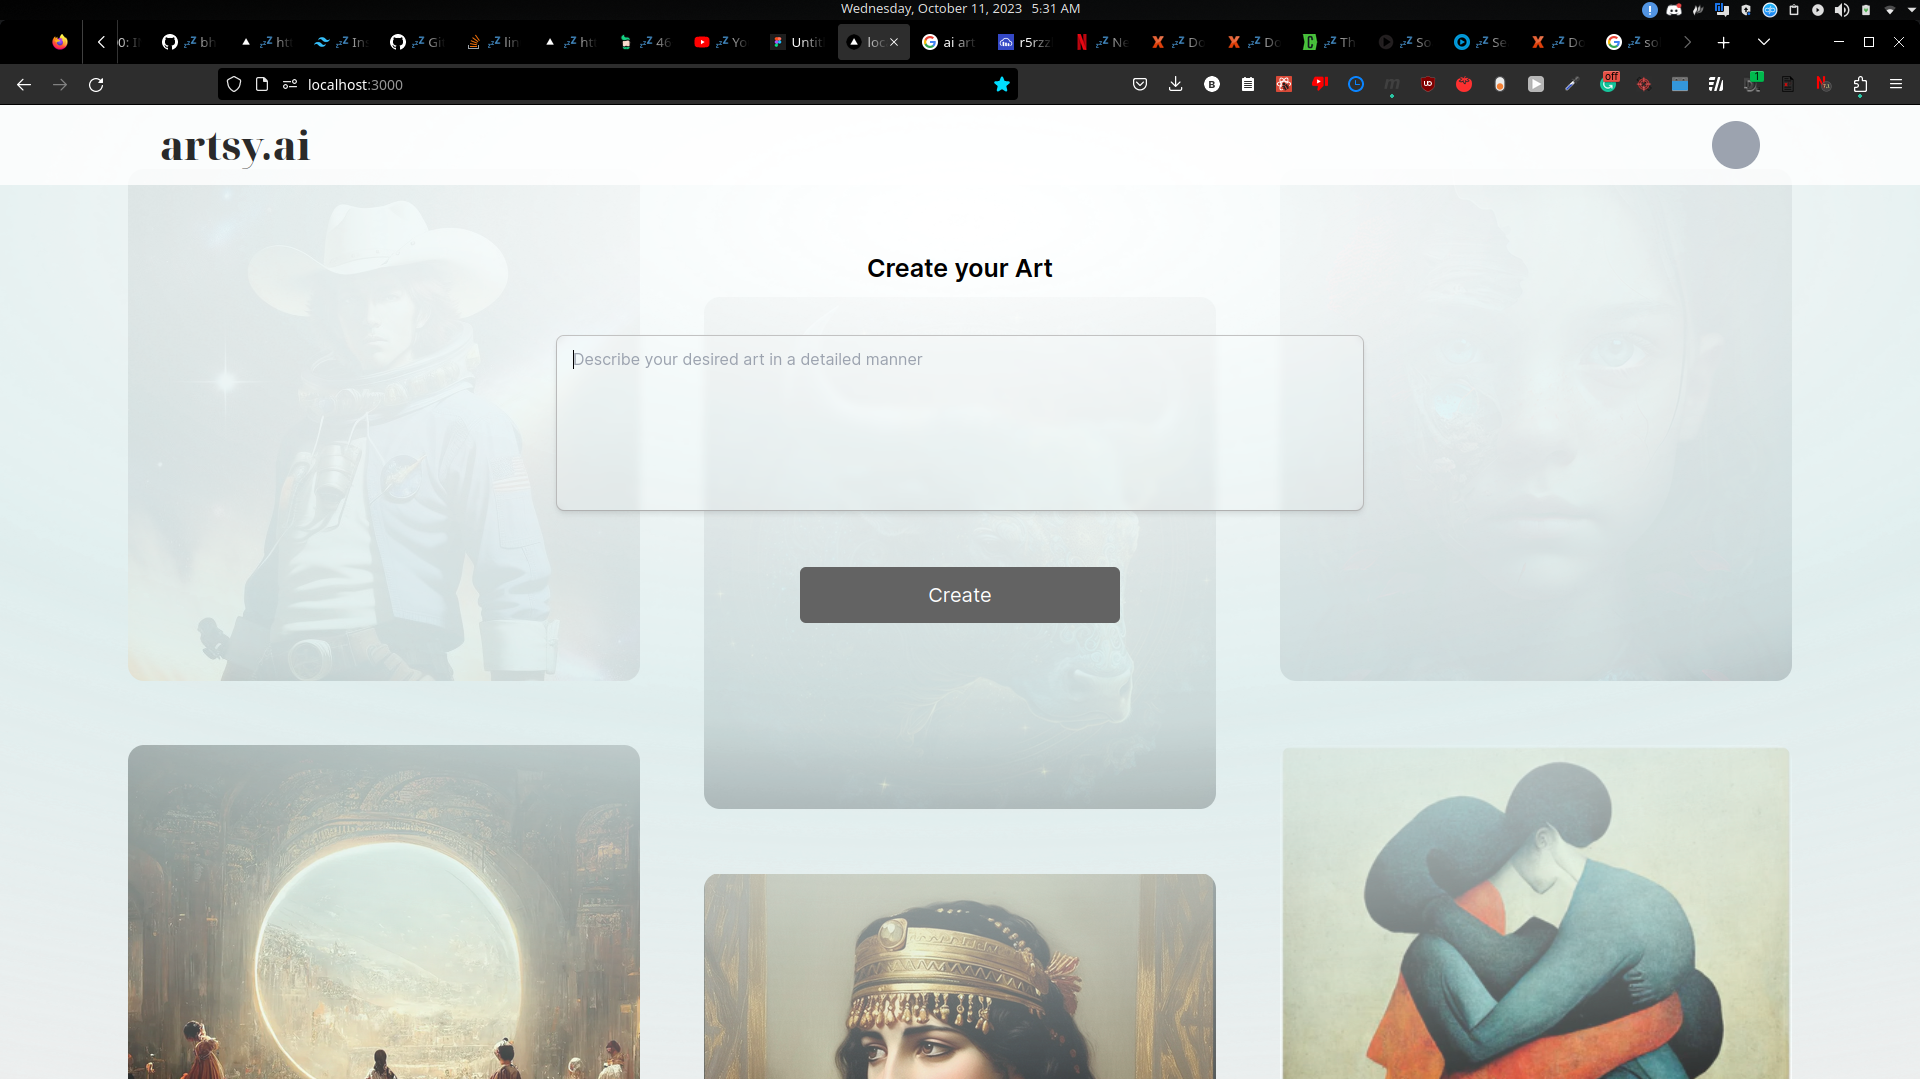
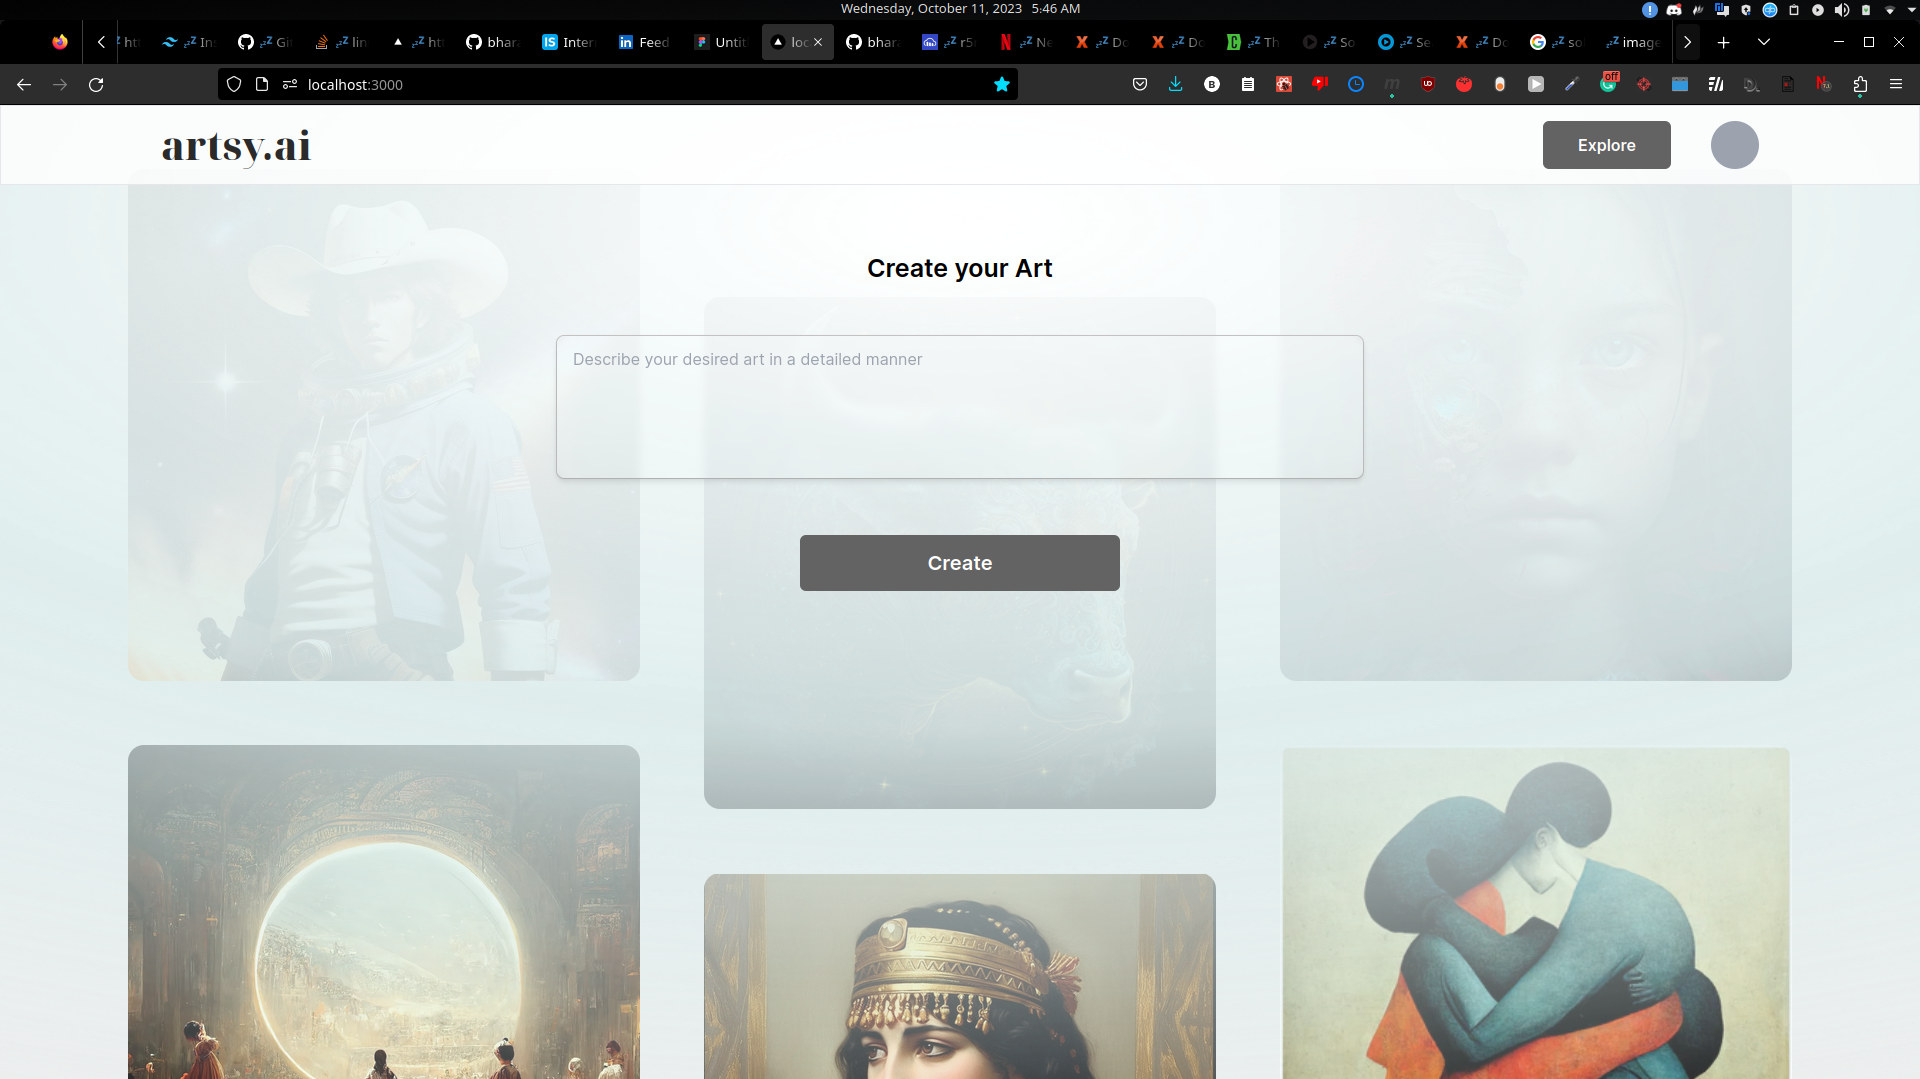
add frontend files for deployment

diff --git a/frontend/components/Explore.jsx b/frontend/components/Explore.jsx
@@ -1,23 +1,67 @@
 import ExplorePane from "./ExplorePane"
+import { useState, useEffect } from "react";
 
-const Explore = () => {
+const Explore = ({explore, generating}) => {
+    const [countdown, setCountdown] = useState(100);
+    useEffect(() => {
+        {
+            const interval = setInterval(() => {
+                if (generating){
+                if (countdown > 0) {
+                    setCountdown(countdown - 1);
+                } else {
+                    setGenerating("Almost done...")
+                    setCountdown(30);
+                }
+            }
+            }, 1000);
+            return () => clearInterval(interval);
+        }
+    }, [countdown, generating]);
     return (
         <div className="flex flex-row mt-12 justify-between px-32 bg-[#EEEEEE]">
             <div className="flex flex-col space-y-16 py-16">
                 <ExplorePane source="https://res.cloudinary.com/dqtt1tmgo/image/upload/v1696954572/r5rzzlxbwn2ddxoljtqn.jpg" />
                 <ExplorePane source="https://media.wired.com/photos/64f8c8a43e1a7b4810e35753/1:1/w_1365,h_1365,c_limit/AI-Copyright-The%CC%81a%CC%82tre_d'Ope%CC%81ra_Spatial-Culture.jpg" />
-                <ExplorePane source="" />
+                <ExplorePane source="https://www.siliconrepublic.com/wp-content/uploads/2023/02/a-3-718x523.jpeg" />
+                <ExplorePane source="https://i.pinimg.com/originals/49/2c/c1/492cc10fda586444d336cfb23876e7b3.jpg" />
+                <ExplorePane source="https://media.newyorker.com/photos/63fd0a142219f46b68fa934f/master/w_1600%2Cc_limit/Gopnik-AI-Art-Seurat-Resized.jpg" />
+                <ExplorePane source="https://img6.arthub.ai/637aa8e3-758.webp" />
+
             </div>
-            <div className="flex flex-col space-y-16 mt-32 py-16">
+            <div className="flex flex-col space-y-16  py-16">
+                <div className="flex justify-center -mb-6 items-center">
+                    <div className="px-8 text-6xl text-[#2A2A2A] font-noto-serif-display">Gallery</div>
+                </div>
                 <ExplorePane source="https://i.etsystatic.com/37358077/r/il/a6b777/4589524064/il_fullxfull.4589524064_4pz1.jpg"/>
                 <ExplorePane source="https://i.etsystatic.com/37358077/r/il/6a4e94/4814014938/il_fullxfull.4814014938_8z7i.jpg"/>
                 <ExplorePane source="https://img6.arthub.ai/64a18521-b51c.webp"/>
+                <ExplorePane source="https://f6e2k7x4.rocketcdn.me/wp-content/uploads/2022/09/JasperArt_2022-08-30_04.18.45_3.jpg" />
+                <ExplorePane source="https://imagedelivery.net/9sCnq8t6WEGNay0RAQNdvQ/clcrvcnm60001la08wfpa3kc3_1/public" />
+                <ExplorePane source="https://i.pinimg.com/originals/49/2c/c1/492cc10fda586444d336cfb23876e7b3.jpg" />
+
             </div>
             <div className="flex flex-col space-y-16 py-16">
                 <ExplorePane source="https://artsquarenft.com/cdn/shop/products/Luigi_ArtSquare_1_3eee8a29-0f61-4cb8-aa79-476b17453fa3.png?v=1679742411&width=1946"/>
                 <ExplorePane source="https://proaiartgallery.com/cdn/shop/products/preview_9e99dd76-d8af-4882-b362-117d2833b066.jpg?v=1671288607&width=360"/>
-                <ExplorePane source=""/>
+                <ExplorePane source="https://imgv3.fotor.com/images/cover-photo-image/AI-generated-girl-in-oil-painting-style.jpg"/>
+                <ExplorePane source="https://miro.medium.com/v2/resize:fit:1358/1*pTppOj0MO_1JkexKQ63Eew.jpeg" />
+                <ExplorePane source="https://mtgrocks.com/wp-content/uploads/2022/08/Mountain.jpg" />
+                <ExplorePane source="https://i.redd.it/a-note-on-ai-art-v0-o278luto0nv91.png?width=1024&format=png&auto=webp&s=e5b55f84cdc7c75270975c9e17da2a8c1cf26876" />
             </div>
+            {generating && <div className="flex fixed bottom-0 right-0 mb-8 mr-14 items-center text-xl justify-center  font-Inter text-white bg-[#171717] h-20 w-76 rounded-2xl shadow-2xl shadow-[#242424] border-[#242424] border-1">
+
+               <div>
+                   <p className="flex absolute w-12 h-12 mr-6 justify-center align-center items-center  font-bold text-md">{countdown}</p>
+
+                   <svg aria-hidden="true" class="w-12 h-12 mr-6 text-gray-200 " viewBox="0 0 100 101" fill="none" xmlns="http://www.w3.org/2000/svg">
+                        <path d="M100 50.5908C100 78.2051 77.6142 100.591 50 100.591C22.3858 100.591 0 78.2051 0 50.5908C0 22.9766 22.3858 0.59082 50 0.59082C77.6142 0.59082 100 22.9766 100 50.5908ZM9.08144 50.5908C9.08144 73.1895 27.4013 91.5094 50 91.5094C72.5987 91.5094 90.9186 73.1895 90.9186 50.5908C90.9186 27.9921 72.5987 9.67226 50 9.67226C27.4013 9.67226 9.08144 27.9921 9.08144 50.5908Z" fill="currentColor" />
+
+                    </svg>
+                </div>
+               Generating...
+
+             </div>}
         </div>
     )
 }

diff --git a/frontend/components/Preview.jsx b/frontend/components/Preview.jsx
@@ -1,6 +1,6 @@
 import ExplorePane from "./ExplorePane"
 
-const Preview = ({image, prompt}) => {
+const Preview = ({image, prompt, show, setShow}) => {
     return (
         <div className="w-screen h-screen flex justify-center bg-[#c2c2c2]  bg-opacity-60 items-center align-middle">        
             <div className="flex flex-col w-[30%]  p-8 rounded-xl border-2 border-gray-600 border-opacity-50 bg-white shadow-xl">
@@ -9,9 +9,13 @@ const Preview = ({image, prompt}) => {
                 {prompt}
             </div>
             <div className="flex flex-row mt-4 space-x-6">
-            <button className="flex font-medium  text-xl  justify-center rounded-md bg-[#3f3f3f] w-80 h-14 items-center hover:bg-[#3f3f3f]  font-Inter text-white"
+            <button 
+            onClick={() => setShow(false)}
+            className="flex font-medium  text-xl  justify-center rounded-md bg-[#3f3f3f] w-80 h-14 items-center hover:bg-[#3f3f3f]  font-Inter text-white"
                     >Save</button>
-            <button className="flex font-medium  text-xl  justify-center rounded-md bg-[#636363] w-80 h-14 items-center hover:bg-[#3f3f3f]  font-Inter text-white"
+            <button 
+            onClick={() => setShow(false)}
+            className="flex font-medium  text-xl  justify-center rounded-md bg-[#636363] w-80 h-14 items-center hover:bg-[#3f3f3f]  font-Inter text-white"
                     >Delete</button>
             </div>
         

diff --git a/frontend/components/Create.jsx b/frontend/components/Create.jsx
@@ -5,7 +5,7 @@ const delay = ms => new Promise(
     resolve => setTimeout(resolve, ms)
   );
 
-const Create = ({explore, setExplore, image, setImage, prompt, setPrompt, generating, setGenerating}) => {
+const Create = ({explore, setExplore, image, setImage, prompt, setPrompt, generating, setGenerating, show, setShow}) => {
 
     const [emptyPrompt, setEmptyPrompt] = useState(false);
 
@@ -21,11 +21,20 @@ const Create = ({explore, setExplore, image, setImage, prompt, setPrompt, genera
         }
         setExplore(true);
         setGenerating(true);
-
-
-
-        console.log(prompt);
+        try {
+            const response = await axios.post("https://artsy-ai-backend.vercel.app/", {
+                prompt: prompt
+            });
+            console.log(response);
+            setImage(response.data.result);
+            setPrompt(response.data.prompt);
+            setGenerating(false);
+            setShow(true);
+        } catch (error) {
+            console.log(error);
+        }
     }
+
     return (
         <div className="flex  py-16 w-screen justify-center">
             <div className="flex flex-col justify-center items-center">

diff --git a/frontend/pages/index.js b/frontend/pages/index.js
@@ -25,10 +25,10 @@ export default function Home() {
    <div className='bg-[#EEEEEE] w-screen h-screen'>
     <div className='fixed overflow-scroll w-screen h-screen'>
       {show && <div className='fixed w-screen h-screen'>
-      <Preview image={image} prompt={prompt} />
+      <Preview show={show} setShow={setShow} image={image} prompt={prompt} />
 
         </div>}
-      <Explore />
+      <Explore explore={explore} generating={generating}/>
       </div>
       <div className='relative '>
         <Navbar explore={explore} setExplore={setExplore} />

diff --git a/frontend/components/ExplorePane.jsx b/frontend/components/ExplorePane.jsx
@@ -1,7 +1,7 @@
 const ExplorePane = ({source}) => {
     return (
-             <div className="flex w-128 h-128">
-                <img  src = {source} className="w-128 rounded-xl object-contain h-128"/>
+             <div className="flex w-128 h-128 hover:border-2 ">
+                <img  src = {source} className="w-128 rounded-xl hover:shadow-2xl object-fill h-128"/>
         </div>
         
        

diff --git a/frontend/components/Navbar.jsx b/frontend/components/Navbar.jsx
@@ -1,6 +1,6 @@
 import React from "react";
 
-const Navbar = ({explore, setExplore}) => {
+const Navbar = ({explore, setExplore, generating}) => {
     return (
         <div className="h-20 px-32 w-screen bg-opacity-100 border-2 bg-white">
             <div className="flex justify-between items-center h-full">
